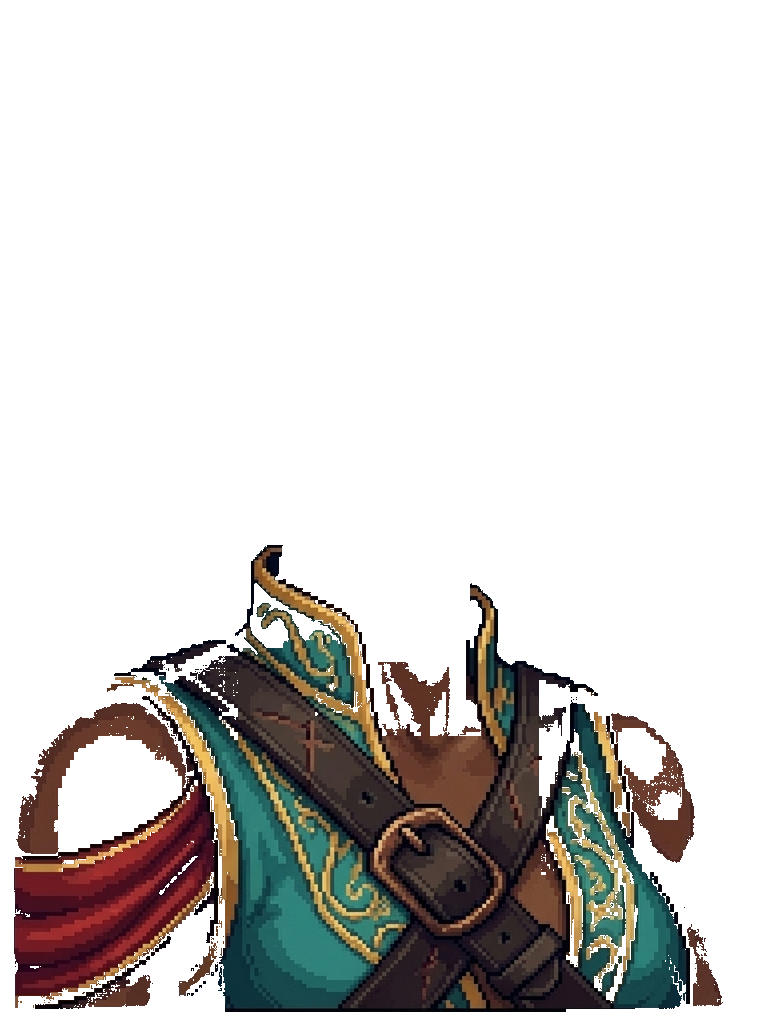
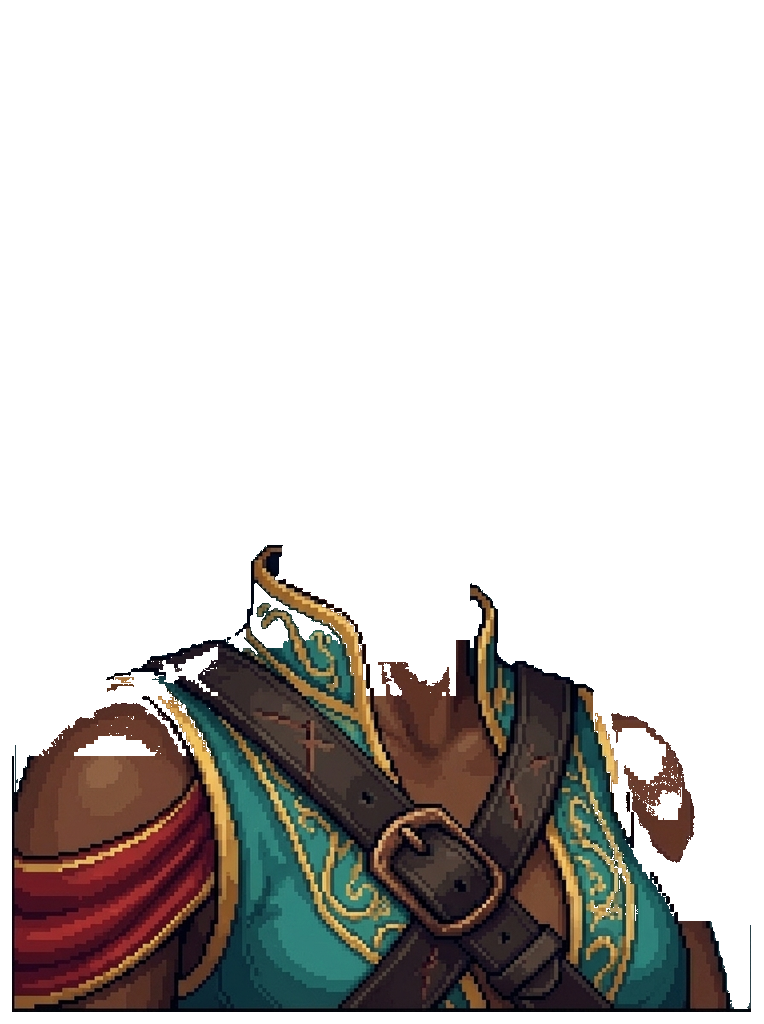
Upgrade built-in AI finalizer to FLUX.2 dev with positive edit prompt and fix corsair arm straps

diff --git a/worker/index.ts b/worker/index.ts
@@ -23,7 +23,8 @@ interface Env {
 }
 
 const CODE = /^[A-Z0-9]{4,8}$/;
-const WORKERS_AI_IMAGE_MODEL = '@cf/black-forest-labs/flux-2-klein-4b';
+const WORKERS_AI_PRIMARY_MODEL = '@cf/black-forest-labs/flux-2-dev';
+const WORKERS_AI_FALLBACK_MODEL = '@cf/black-forest-labs/flux-2-klein-4b';
 
 function decodeBase64DataUrl(dataUrl: string): { bytes: Uint8Array; mime: string } | null {
   const match = dataUrl.match(/^data:(image\/(?:png|jpeg|webp));base64,([A-Za-z0-9+/=]+)$/);
@@ -66,31 +67,35 @@ async function handleAiRender(request: Request, env: Env): Promise<Response> {
 
   const width = Math.max(256, Math.min(1024, Math.round(Number(body.width) || 768)));
   const height = Math.max(256, Math.min(1024, Math.round(Number(body.height) || 1024)));
-  const fluxPrompt = rawPrompt.replace(
-    'the attached rough layered portrait collage',
-    'image 0 (the attached rough layered portrait collage)'
-  );
-
-  const form = new FormData();
-  form.append('prompt', fluxPrompt.slice(0, 2000));
-  form.append('input_image_0', new Blob([decoded.bytes], { type: decoded.mime }), 'reference.png');
-  form.append('width', String(width));
-  form.append('height', String(height));
-
-  const serialized = new Response(form);
-  const contentType = serialized.headers.get('content-type') || 'multipart/form-data';
-
-  try {
-    const aiResult = await env.AI.run(WORKERS_AI_IMAGE_MODEL, {
+  const buildPayload = (withSteps: boolean) => {
+    const form = new FormData();
+    form.append('prompt', rawPrompt.slice(0, 2000));
+    form.append('input_image_0', new Blob([decoded.bytes], { type: decoded.mime }), 'reference.png');
+    form.append('width', String(width));
+    form.append('height', String(height));
+    if (withSteps) form.append('steps', '14');
+    const serialized = new Response(form);
+    return {
       multipart: {
         body: serialized.body!,
-        contentType,
+        contentType: serialized.headers.get('content-type') || 'multipart/form-data',
       },
-    });
+    };
+  };
+
+  try {
+    let usedModel = WORKERS_AI_PRIMARY_MODEL;
+    let aiResult: unknown;
+    try {
+      aiResult = await env.AI.run(WORKERS_AI_PRIMARY_MODEL, buildPayload(true));
+    } catch {
+      usedModel = WORKERS_AI_FALLBACK_MODEL;
+      aiResult = await env.AI.run(WORKERS_AI_FALLBACK_MODEL, buildPayload(false));
+    }
 
     let b64: string | undefined;
-    if (aiResult && typeof aiResult === 'object' && 'image' in aiResult && typeof aiResult.image === 'string') {
-      b64 = aiResult.image;
+    if (aiResult && typeof aiResult === 'object' && 'image' in aiResult && typeof (aiResult as { image?: unknown }).image === 'string') {
+      b64 = (aiResult as { image: string }).image;
     } else if (aiResult instanceof ReadableStream) {
       const buf = await new Response(aiResult).arrayBuffer();
       b64 = uint8ToBase64(new Uint8Array(buf));
@@ -103,7 +108,7 @@ async function handleAiRender(request: Request, env: Env): Promise<Response> {
     const outMime = b64.startsWith('iVBOR') ? 'image/png' : 'image/jpeg';
     return Response.json({
       imageDataUrl: `data:${outMime};base64,${b64}`,
-      model: WORKERS_AI_IMAGE_MODEL,
+      model: usedModel,
     });
   } catch (err) {
     const msg = err instanceof Error ? err.message : String(err);

diff --git a/src/lib/renderSpecCompiler.ts b/src/lib/renderSpecCompiler.ts
@@ -215,7 +215,7 @@ export function compileRenderPrompt(params: {
   portrait: PortraitConfig;
   catalog: PortraitCatalog;
   sheet?: CharacterSheetRenderContext;
-}): { prompt: string; summary: string } {
+}): { prompt: string; fluxPrompt: string; summary: string } {
   const { portrait, catalog, sheet } = params;
   const opts: PortraitRenderOptions = {
     ...DEFAULT_RENDER_OPTIONS,
@@ -333,6 +333,23 @@ export function compileRenderPrompt(params: {
     .filter(Boolean)
     .join("\n");
 
+  const fluxBodyCue =
+    opts.bodyType !== "athletic" || Boolean(opts.customBodyNote?.trim())
+      ? ` Reshape the face, cheeks, jaw, neck, shoulders, and torso cleanly into a ${physiqueText}.`
+      : "";
+
+  const fluxPrompt = [
+    `Repaint the character in image 0 as a seamless, cohesive 32-bit RPG pixel-art bust portrait of a ${physiqueText} ${genderWord} ${raceName} (${ageText}) with ${expressionText}.${fluxBodyCue}`,
+    `Paint smooth, uniform ${targetSkinTone} evenly across the entire face, temples, jawline, neck, chest, and bare shoulders, with hair flowing naturally behind the ears, crisp sculpted lips, and unified armor and fabric transitions.`,
+    visualFeatures.length > 0 ? `Retain all identity and outfit elements from image 0: ${visualFeatures.join(", ")}.` : "",
+    equippedList.length > 0 ? `Depict equipped gear cleanly in hand or worn: ${equippedList.join(", ")}.` : "",
+    magicSchools.length > 0 ? `Add ${magicSchools.slice(0, 2).join(" and ")} magic sparks around the character.` : "",
+    `Keep the exact hair, eyebrow, eye, heterochromia, warpaint, cloak, and garment color palette from image 0. Render in hand-crafted 32-bit dark-fantasy RPG pixel art with crisp 1px dark ink outlines, sculpted cel shading, subtle dithering, and warm upper-left key light.`,
+    `Compose a centered 3:4 bust portrait with generous headroom filling the entire canvas edge-to-edge against ${backdropText}.`,
+  ]
+    .filter(Boolean)
+    .join(" ");
+
   const summary = `${raceName} ${genderWord} • ${BODY_TYPE_DESCRIPTIONS[opts.bodyType]?.label || opts.bodyType} • ${EXPRESSION_DESCRIPTIONS[opts.expression]?.label || opts.expression}`;
-  return { prompt, summary };
+  return { prompt, fluxPrompt, summary };
 }

diff --git a/src/components/character/FinalRenderPanel.tsx b/src/components/character/FinalRenderPanel.tsx
@@ -89,7 +89,7 @@ export function FinalRenderPanel({
   }, []);
 
   const compiledSpec = useMemo(() => {
-    if (!catalog) return { prompt: "", summary: "" };
+    if (!catalog) return { prompt: "", fluxPrompt: "", summary: "" };
     return compileRenderPrompt({ portrait, catalog, sheet: sheetContext });
   }, [portrait, catalog, sheetContext]);
 
@@ -168,7 +168,7 @@ export function FinalRenderPanel({
           })
         : await requestBuiltInAiRender({
             baseImageDataUrl,
-            prompt: compiledSpec.prompt,
+            prompt: compiledSpec.fluxPrompt,
             onStatus: (st, msg) => {
               setRenderStatus(st);
               if (msg) setRenderMessage(msg);
